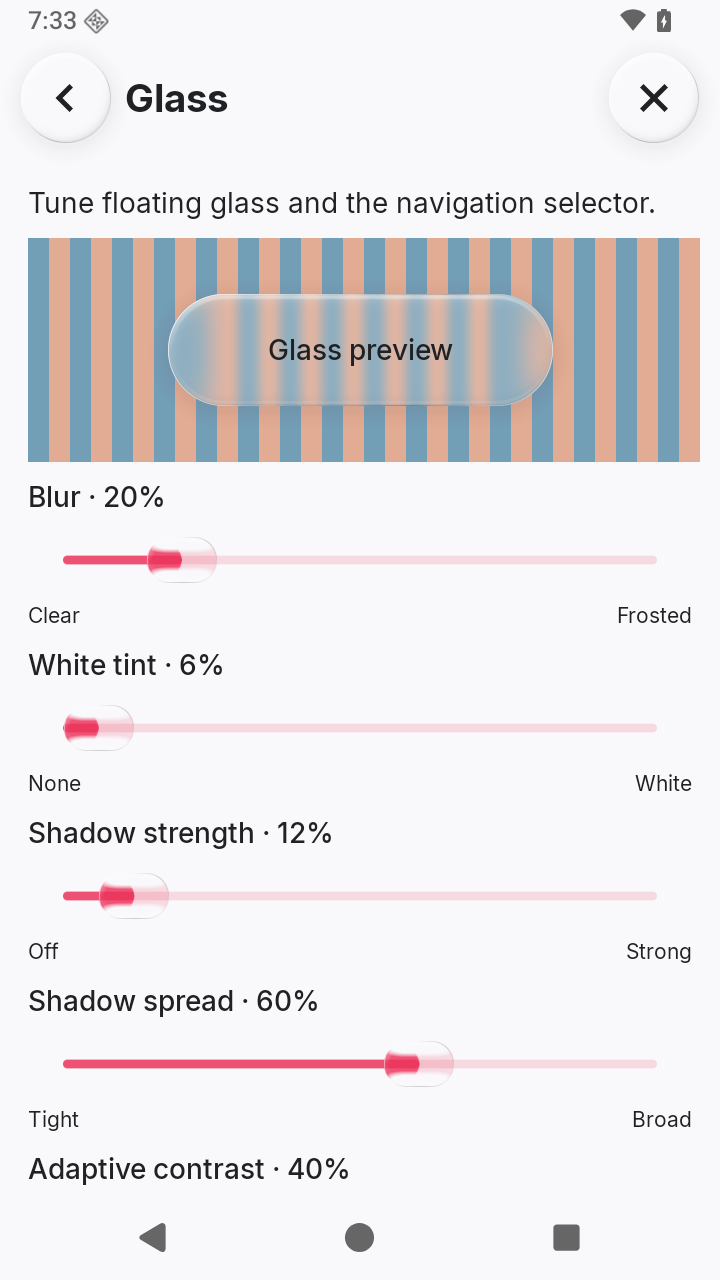
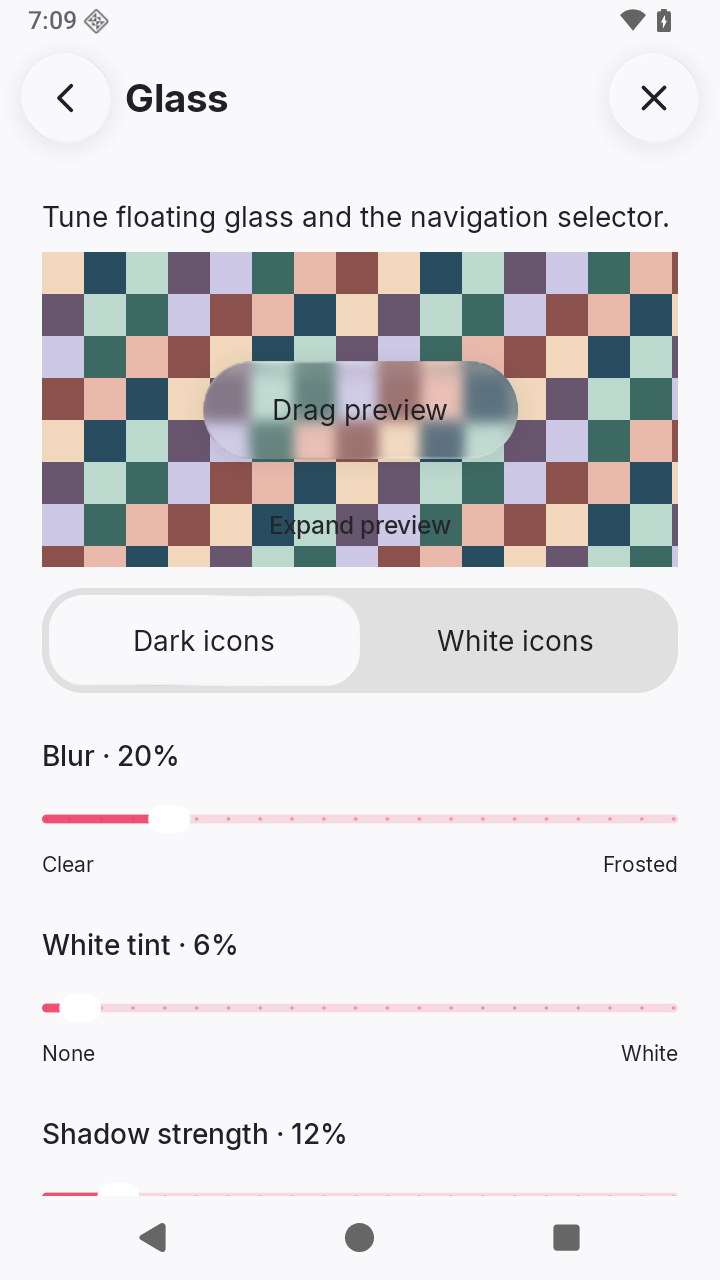
Refine glass controls and surface continuity
Give settings controls clear active lenses and opaque resting thumbs, correct nested backdrop and shadow ownership, and align player geometry with device corners.

Refs #179, #180, #181, #182. Verified full local build, unit tests, lint and instrumentation on API 26 and API 36.

diff --git a/docs/controls.md b/docs/controls.md
@@ -34,11 +34,11 @@ The general [spring/strain model](specification.md#shape-carries-impact) owns th
 
 ## Sliders: keep the value visible
 
-Apple's WWDC25 demonstration enlarges the thumb into a transparent rounded lens during manipulation, revealing the colored track endpoint beneath it. Its resting thumb is quieter and white. **Localica deliberately keeps settings slider thumbs clear at rest**, following the requested design. This is an adaptation, not a claim that all Apple sliders are always clear. [Demonstration and observations](sources.md#sliders-and-switches--wwdc25).
+Apple's WWDC25 demonstration enlarges the thumb into a transparent rounded lens during manipulation, revealing the colored track endpoint beneath it. Its resting thumb is quieter and white. Localica uses opaque white resting thumbs and a clear, unblurred active lens. The active lens ignores ordinary glass appearance settings; its expansion is configurable from 1–2× (default 1.75×). Release continuously restores the white finish, then stops refraction work. [Demonstration and observations](sources.md#sliders-and-switches--wwdc25).
 
 - Use a wide rounded rectangle, a continuous thin track, and crisp nearby value text. Keep the endpoint clear of blur, white plates and contrast coating. Render track and lens as one scene: identity outside, refraction inside, with one shared center and no independently positioned cutout. Keep tick centers inside rounded end caps.
-- A thumb grab preserves its offset. A tap elsewhere on the track can choose a new value using the platform slider behavior; pressure must start from that new location, not the previous value.
-- Match fill, thumb travel, endpoint labels and boundary compression. Horizontal ranges run from logical leading minimum to trailing maximum, including right-to-left layouts. Vertical ranges run from bottom minimum to top maximum.
+- A thumb grab immediately owns the gesture until release, including initial vertical motion, and preserves its offset. A tap elsewhere on the track can choose a new value using the platform slider behavior; pressure must start from that new location, not the previous value.
+- One coordinate model owns fill, thumb travel, values, endpoint labels and boundary compression. Round discrete values to the nearest stop; continuous values reach both limits at the visible track endpoints. Horizontal ranges run from logical leading minimum to trailing maximum, including right-to-left layouts. Vertical ranges run from bottom minimum to top maximum.
 - Discrete controls expose ticks and matching accessible increments, with strong shared magnetic wells between valid stops. Percentage settings use 5% increments; other continuous ranges retain their precision. Thumb motion may preview travel between stops while the saved value stays valid.
 - Reduced Motion keeps direct tracking and state changes, but removes decorative strain and depth changes. Do not substitute a blur animation for the removed movement.
 
@@ -47,9 +47,9 @@ The playback track remains a separate thumbless-at-rest control. Dragging it pre
 <details>
 <summary>See the controls in Localica</summary>
 
-<img src="assets/settings.png" width="300" alt="Localica glass settings with transparent rounded slider thumbs revealing the colored track endpoints beneath them">
+<img src="assets/settings.png" width="300" alt="Localica glass settings with white resting thumbs and grouped labels">
 
-An actual app capture on Android 16. The still image shows resting optics and layout; use the exercises below to review interaction.
+An actual app capture on Android 16. The still image shows the resting controls and layout; use the exercises below to review interaction.
 
 </details>
 
